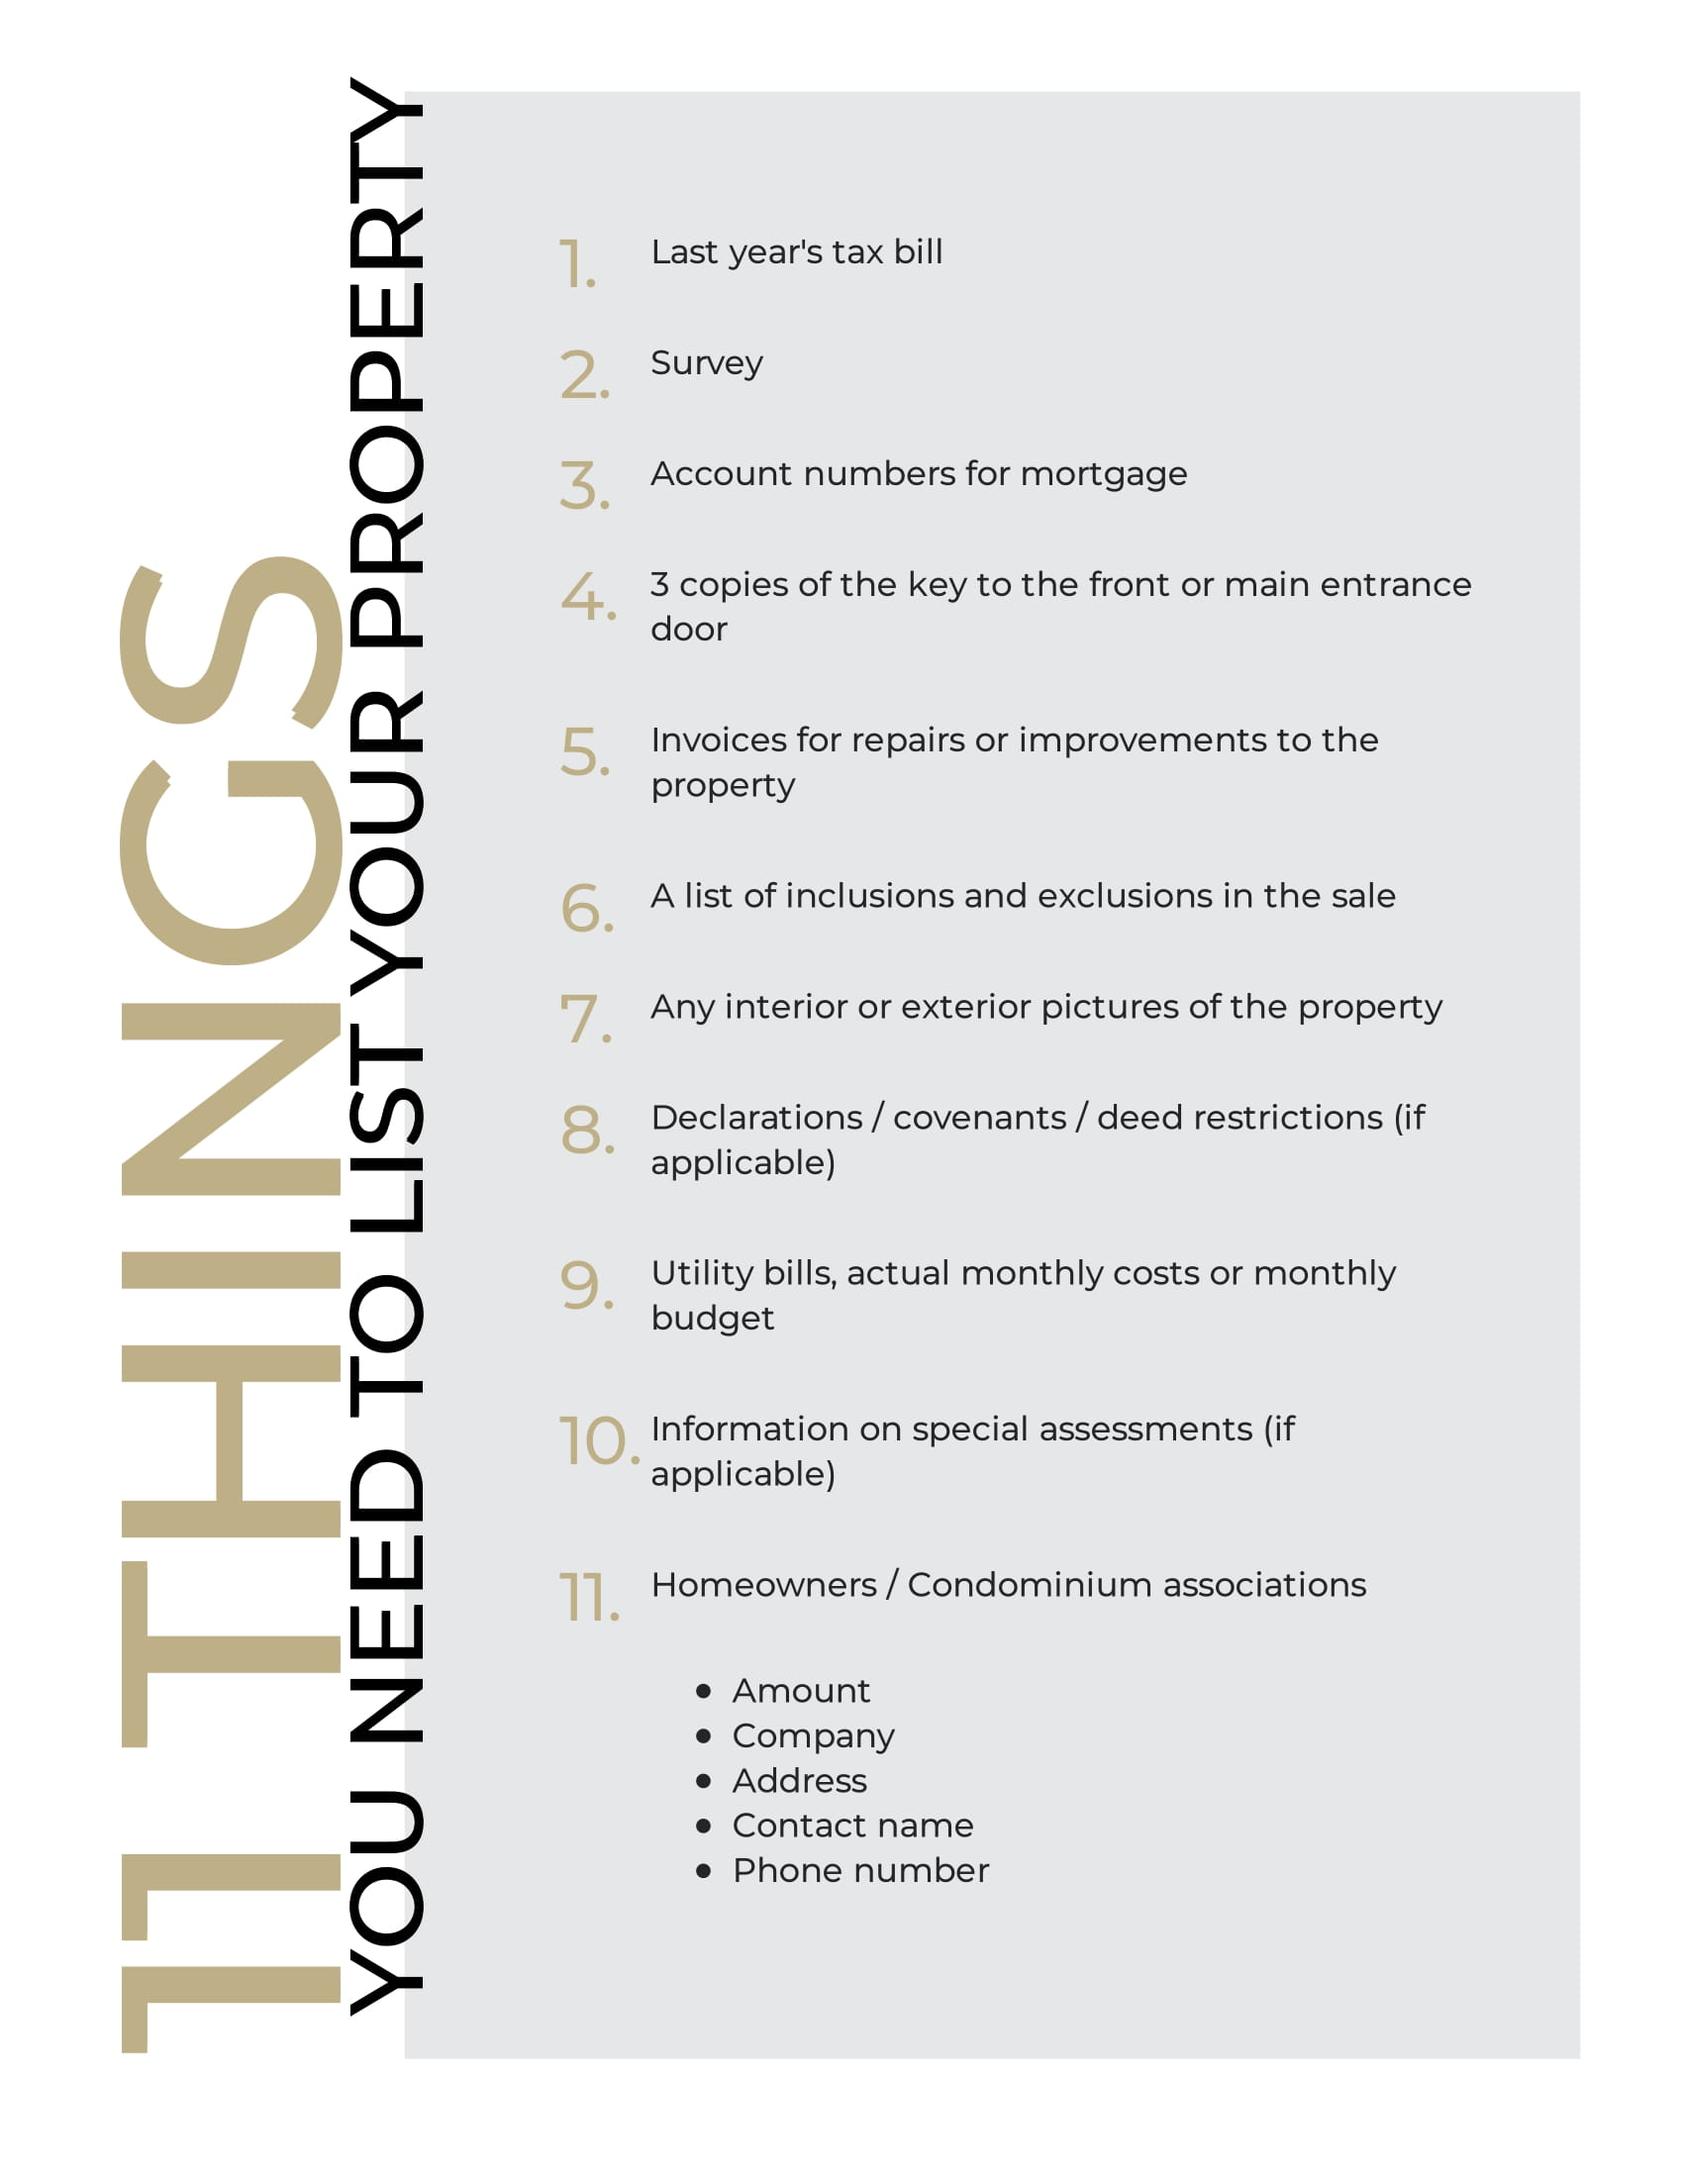
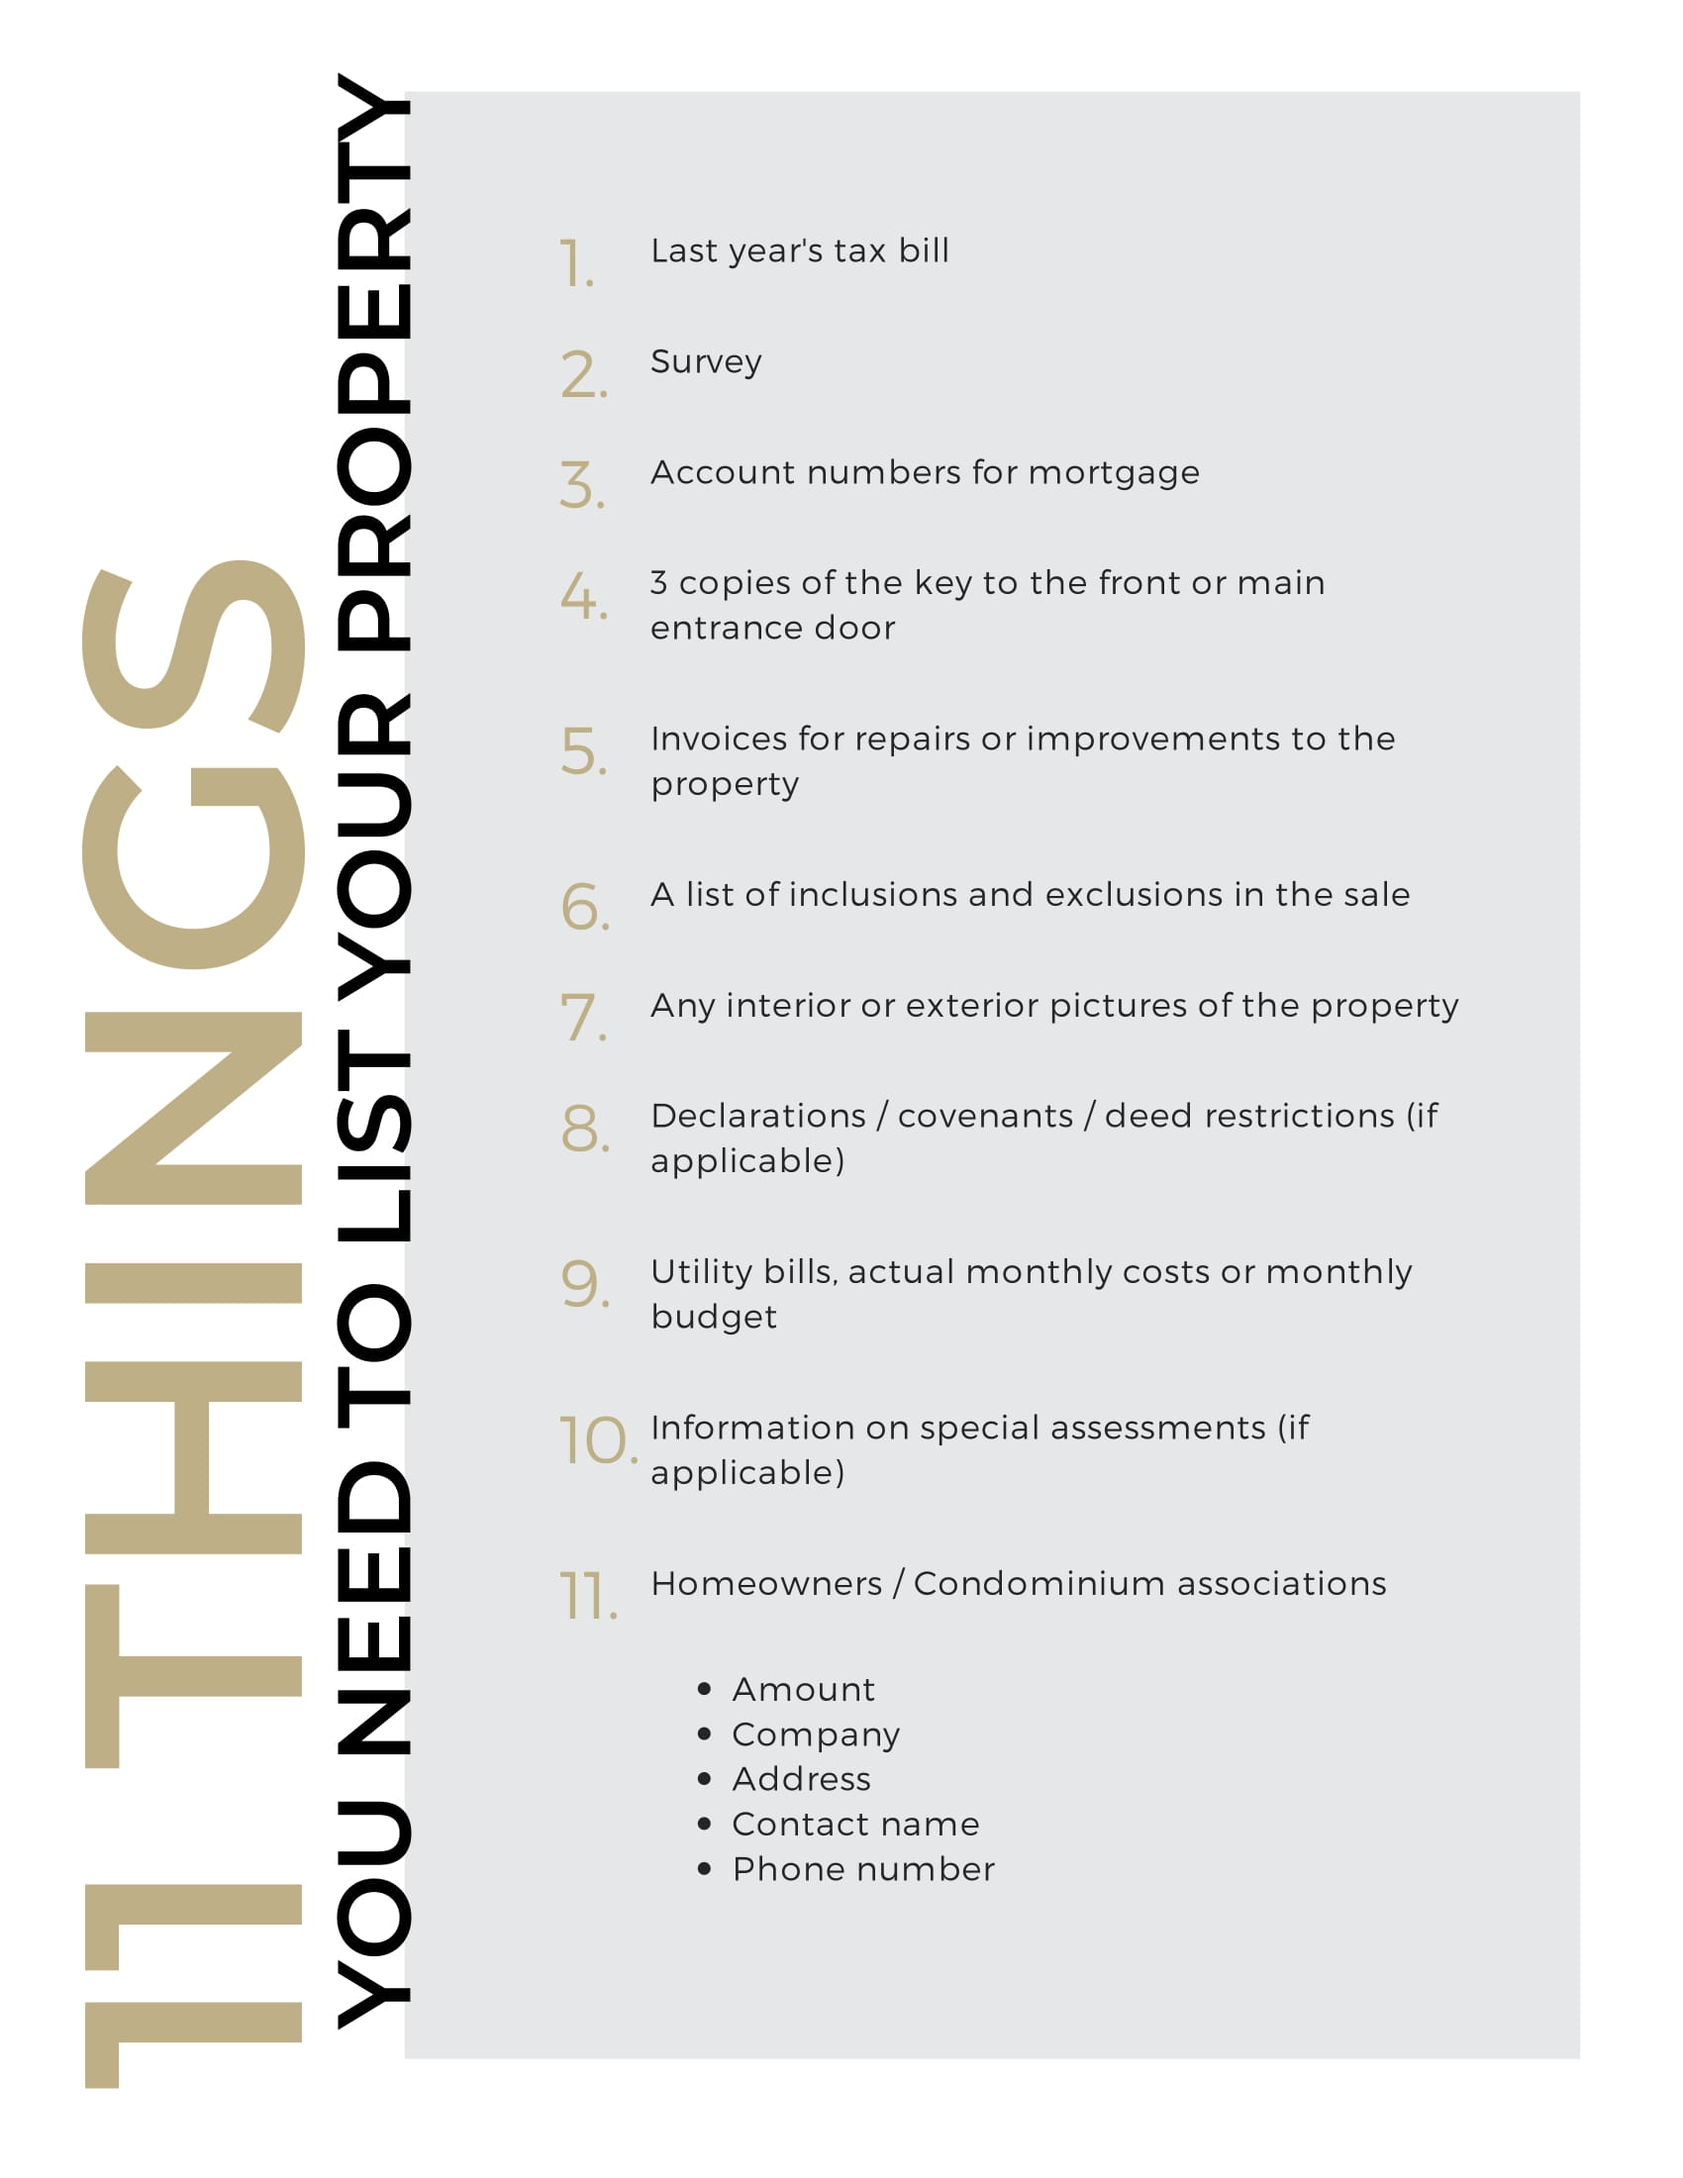
C21 seller reoprt previview changess

diff --git a/assets/reports/widget/maxa_century21/seller/style.css b/assets/reports/widget/maxa_century21/seller/style.css
@@ -1486,7 +1486,7 @@ ul.custom_list ul.custom_list {
   margin-left: auto;
 }
 .new_pdf1 h1 {
-  font-size: 50px;
+  font-size: 55px;
   font-weight: 600;
   color: #BEAF87;
   letter-spacing: 3px;
